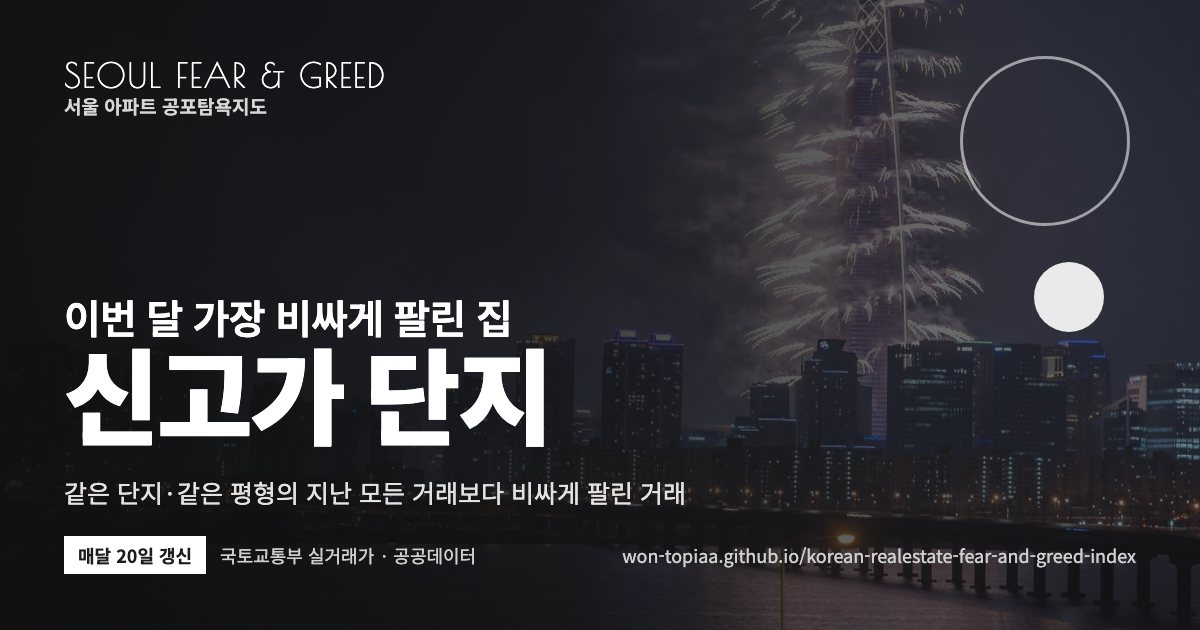
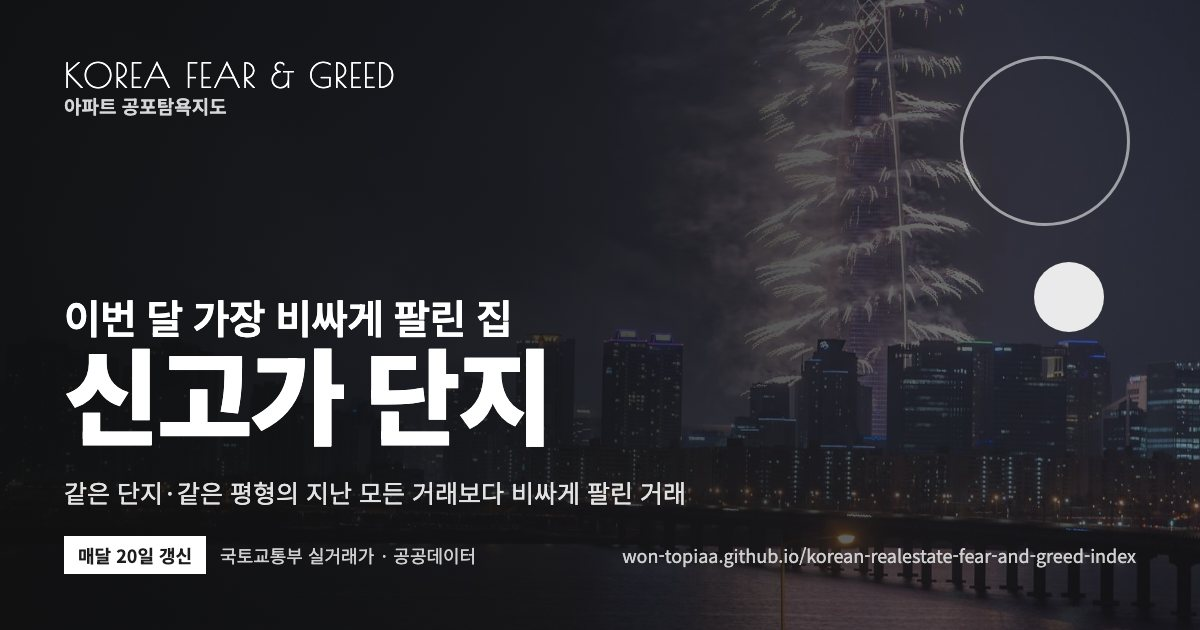
링크 미리보기 그림: 새 로고, 첫 화면·서울·지역별 그림
- 로고를 KOREA FEAR & GREED / 아파트 공포탐욕지도로
- 첫 화면(home)과 서울 지도(seoul)를 따로, 수도권·광역시 7곳은 지역 사진으로 (사진이 없는 울산·대구는 서울 사진)
- 예전 map.jpg는 home·seoul로 나눠 지움

Changed region(s): [[0.0308, 0.0905, 0.3392, 0.181]]

diff --git a/og_build.py b/og_build.py
@@ -11,19 +11,26 @@ from pathlib import Path
 
 from PIL import Image
 
+from regions import REGIONS
+
 ROOT = Path(__file__).parent
 OUT = ROOT / "assets" / "og"
 CHROME = os.environ.get("CHROME", "/Applications/Google Chrome.app/Contents/MacOS/Google Chrome")
 SITE = "won-topiaa.github.io/korean-realestate-fear-and-greed-index"
 
-# 페이지: (사진, 사진 세로 위치, 윗줄, 큰 제목, 설명)
+# 페이지: (사진, 사진 세로 위치, 윗줄, 큰 제목, 설명). 지역 페이지(regions.REGIONS)는 아래에서 지역 사진으로 덧붙인다 (사진이 없으면 서울 사진)
 PAGES = {
-    "map": ("bg-map", "50%", "서울 아파트", "공포탐욕지도", "서울 5대 권역·25개 구의 공포와 탐욕을 0~100으로 매달 보여드려요"),
+    "home": ("bg-map", "50%", "지역별 아파트", "공포탐욕지도", "서울·수도권·광역시의 공포와 탐욕을 0~100으로 · 지도에서 지역을 눌러 구·시군까지"),
+    "seoul": ("bg-map", "50%", "서울 아파트", "공포탐욕지도", "서울 5대 권역·25개 구의 공포와 탐욕을 0~100으로 매달 보여드려요"),
     "apt": ("bg-apt", "40%", "최근 실거래가, 비싼 편일까?", "단지 검색", "우리 단지 최근 거래가 최근 2년 거래 중 어디쯤인지 0~100점으로"),
     "highs": ("bg-highs", "45%", "이번 달 가장 비싸게 팔린 집", "신고가 단지", "같은 단지·같은 평형의 지난 모든 거래보다 비싸게 팔린 거래"),
     "sim": ("bg-sim", "38%", "그때 샀다면 지금 얼마?", "모의 투자", "실거래로 계산하는 가상 투자 · 단지 2~3개 같은 기간 비교"),
     "report": ("bg-report", "50%", "서울 공포탐욕지수", "백테스트", "실거래 141만 건으로 검증한 지수의 정확도와 한계"),
 }
+for _rid, _d in REGIONS.items():
+    _img = f"bg-{_rid}" if (ROOT / "assets" / "img" / f"bg-{_rid}.jpg").exists() else "bg-map"
+    _sw = "시·구" if _rid == "gyeonggi" else "구·군"
+    PAGES[_rid] = (_img, "50%", f"{_d['name']} 아파트", "공포탐욕지도", f"{_d['name']} {len(_d['lawd'])}개 {_sw}의 공포와 탐욕을 0~100으로 매달 보여드려요")
 
 HTML = """<!doctype html><html lang="ko"><head><meta charset="utf-8">
 <link rel="stylesheet" href="https://fonts.googleapis.com/css2?family=Archivo:wdth,wght@100..125,400..900&family=Noto+Sans+KR:wght@400;600;700;900&family=Poiret+One&display=block">
@@ -47,7 +54,7 @@ html, body {{ width: 1200px; height: 630px; overflow: hidden; background: #14141
 .dot2 {{ position: absolute; width: 70px; height: 70px; border-radius: 50%; background: rgba(255,255,255,.9); right: 96px; top: 262px; }}
 </style></head><body><div class="card"><div class="bg"></div><div class="shade"></div><i class="dot1"></i><i class="dot2"></i>
 <div class="in">
-  <div class="logo"><span class="en">SEOUL FEAR &amp; GREED</span><span class="ko">서울 아파트 공포탐욕지도</span></div>
+  <div class="logo"><span class="en">KOREA FEAR &amp; GREED</span><span class="ko">아파트 공포탐욕지도</span></div>
   <div class="h"><span class="a">{a}</span><span class="b">{b}</span></div>
   <p class="d">{d}</p>
   <div class="foot"><span class="tag">매달 20일 갱신</span><span>국토교통부 실거래가 · 공공데이터</span><span style="margin-left:auto">{site}</span></div>
@@ -56,6 +63,7 @@ html, body {{ width: 1200px; height: 630px; overflow: hidden; background: #14141
 
 def main():
     OUT.mkdir(parents=True, exist_ok=True)
+    (OUT / "map.jpg").unlink(missing_ok=True)  # 예전 이름 (첫 화면이 서울 지도이던 때) → home·seoul
     with tempfile.TemporaryDirectory() as tmp:
         for name, (img, y, a, b, d) in PAGES.items():
             html = Path(tmp) / f"{name}.html"

diff --git a/site_build.py b/site_build.py
@@ -37,10 +37,10 @@ REPO = "https://github.com/won-topiaa/korean-realestate-fear-and-greed-index"
 SITE_URL = "https://won-topiaa.github.io/korean-realestate-fear-and-greed-index/"
 # 링크 미리보기 (카카오톡·문자·SNS): 사이트 폴더 → (미리보기 그림 assets/og/*.jpg, 제목). 그림은 og_build.py로 만든다
 SITE_NAME = "아파트 공포탐욕지도"
-OG = {"": ("map", "아파트 공포탐욕지도 · 서울·수도권·광역시"), "seoul/": ("map", "서울 아파트 공포탐욕지도"),
+OG = {"": ("home", "아파트 공포탐욕지도 · 서울·수도권·광역시"), "seoul/": ("seoul", "서울 아파트 공포탐욕지도"),
       "apt/": ("apt", "단지 검색 · 서울 아파트 공포탐욕지도"),
       "highs/": ("highs", "신고가 단지 · 서울 아파트 공포탐욕지도"), "sim/": ("sim", "모의 투자 · 서울 아파트 공포탐욕지도"),
-      "report/": ("report", "백테스트 보고서 · 서울 아파트 공포탐욕지도"), "api/": ("map", "데이터 API · 서울 아파트 공포탐욕지도")}
+      "report/": ("report", "백테스트 보고서 · 서울 아파트 공포탐욕지도"), "api/": ("home", "데이터 API · 아파트 공포탐욕지도")}
 
 
 def og_meta(dst, desc):
@@ -197,7 +197,7 @@ if __name__ == "__main__":
     for rid in home_build.published():  # 공개 기준을 넘은 수도권·광역시 (같은 지도 템플릿)
         d = json.loads((ROOT / "results_region" / f"{rid}.json").read_text())
         nm, sw, n = d["top"], d["sub_word"], len(d["gu_order"])
-        OG[f"{rid}/"] = ("map", f"{nm} 아파트 공포탐욕지도")
+        OG[f"{rid}/"] = (rid if (ROOT / "assets" / "og" / f"{rid}.jpg").exists() else "home", f"{nm} 아파트 공포탐욕지도")
         src = ROOT / "results_region" / f"page_{rid}.html"
         src.write_text(map_render(region_fill(d), json.dumps(d, ensure_ascii=False, separators=(",", ":"))))
         wrap(src, SITE / rid / "index.html",

diff --git a/README.md b/README.md
@@ -276,4 +276,4 @@ python -m venv .venv && .venv/bin/pip install -r requirements.txt
 - 전세가율 (전월세 실거래 API 활용신청 필요)
 - 실시간 검증 기록 쌓기 (첫 채점은 2028년 하반기 예상)
 - 협업 검토: KB 자료 이용 조건 확인, 또는 협업 상대의 매물·호가 자료로 KB 설문 대체
-- 수도권·광역시: 실거래를 다 받으면 검증용 5개 지역으로 대안 비교 → 공개 여부 결정, 지역별 대표 사진(CC0), 지역 페이지 링크 미리보기 그림
+- 수도권·광역시: 실거래를 다 받으면 검증용 5개 지역으로 대안 비교 → 공개 여부 결정, 울산·대구 대표 사진(CC0 찾는 중)
